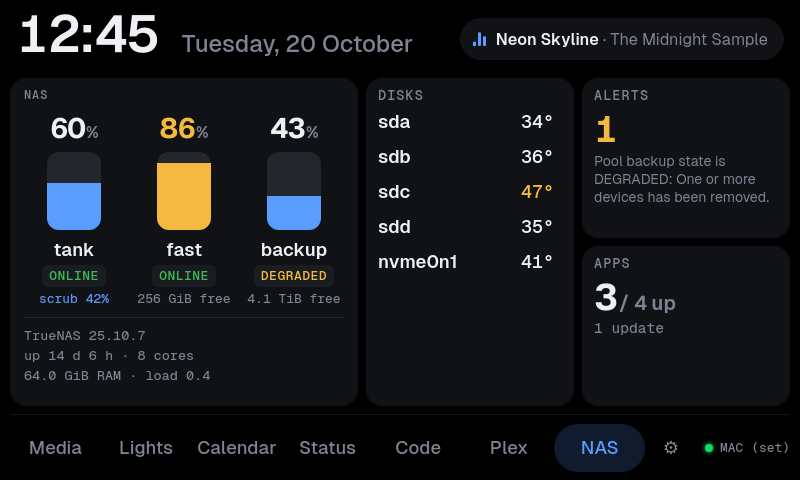
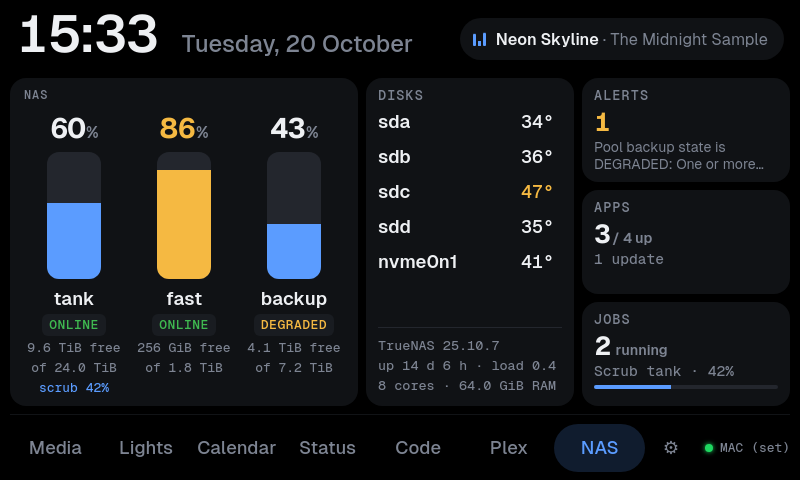
Move the TrueNAS version and system lines under the disks

diff --git a/device/web/index.html b/device/web/index.html
@@ -390,7 +390,7 @@
   .plex .m-detail { font-size: calc(13.5px * var(--ts)); }
   .plex .m-value { font-size: calc(34px * var(--ts)); }
   /* the NAS page: a narrow card of pools as vertical tanks, then disks, alerts and apps */
-  .nas-pools { flex: none; min-width: 200px; max-width: 52%; padding: 10px 14px 0; }
+  .nas-pools { flex: none; min-width: 200px; max-width: 52%; padding: 10px 14px 10px; }
   .nas-cols { flex: 1; min-height: 0; display: flex; overflow-x: auto; }
   .nas-cols::-webkit-scrollbar { display: none; }
   .nas-col { flex: 1; min-width: 100px; display: flex; flex-direction: column; align-items: center; padding-top: 4px; }
@@ -408,7 +408,7 @@
   .nas-free { max-width: 100%; margin-top: 4px; font: 500 calc(12px * var(--ts)) GeistMono, monospace; color: var(--muted);
     white-space: nowrap; overflow: hidden; text-overflow: ellipsis; }
   .nas-scan { color: var(--acc); }
-  .nas-sys { flex: none; margin-top: 10px; padding: 8px 0 10px; border-top: 1px solid var(--line); font: 500 calc(12.5px * var(--ts)) GeistMono, monospace;
+  .nas-sys { flex: none; margin-top: 6px; padding: 8px 0 4px; border-top: 1px solid var(--line); font: 500 calc(12.5px * var(--ts)) GeistMono, monospace;
     color: var(--muted); line-height: 1.5; }
   .nas-sys div { white-space: nowrap; overflow: hidden; text-overflow: ellipsis; }
   .px-num.warn, .m-value.warn { color: var(--warn); }
@@ -2137,10 +2137,11 @@ function updateNas() {
   var line = function (parts) { parts = parts.filter(function (x) { return x; }); return parts.length ? '<div>' + parts.join(' · ') + '</div>' : ''; };
   redraw($('nasp'), '<h3>' + esc(sys.host || 'TrueNAS') + '</h3><div class="nas-cols">' +
     (pools.map(function (p) { return nasPool(p, pools.some(function (q) { return q.scan; })); }).join('') ||
-      '<div class="ag-empty">No pools</div>') + '</div>' +
-    '<div class="nas-sys">' + line([sys.version ? 'TrueNAS ' + esc(String(sys.version).replace(/^TrueNAS-/, '')) : '']) +
-      line([sys.uptime ? 'up ' + fmtUptime(sys.uptime) : '', sys.cores ? sys.cores + ' cores' : '']) +
-      line([sys.memory ? fmtBytes(sys.memory) + ' RAM' : '', sys.load && sys.load.length ? 'load ' + Number(sys.load[0]).toFixed(1) : '']) + '</div>');
+      '<div class="ag-empty">No pools</div>') + '</div>');
+  // The server under the disks: version, uptime, cores, memory and load.
+  var sysInfo = '<div class="nas-sys">' + line([sys.version ? 'TrueNAS ' + esc(String(sys.version).replace(/^TrueNAS-/, '')) : '']) +
+    line([sys.uptime ? 'up ' + fmtUptime(sys.uptime) : '', sys.load && sys.load.length ? 'load ' + Number(sys.load[0]).toFixed(1) : '']) +
+    line([sys.cores ? sys.cores + ' cores' : '', sys.memory ? fmtBytes(sys.memory) + ' RAM' : '']) + '</div>';
   var hot = disks.filter(function (d) { return d.temp != null; });
   var temps = hot.map(function (d) {
     var nvme = /^nvme/.test(d.name), cls = d.temp >= (nvme ? 70 : 55) ? ' bad' : d.temp >= (nvme ? 60 : 45) ? ' warn' : '';  // SSDs run warmer
@@ -2161,7 +2162,7 @@ function updateNas() {
     (job ? '<div class="m-detail nas-job">' + esc(nasJobName(job)) + (pct != null ? ' · ' + Math.round(pct) + '%' : '') + '</div>' +
       '<div class="np-bar"><i style="width:' + (pct || 0) + '%"></i></div>' : '<div class="m-detail">None now</div>') + '</div>';
   redraw($('nasside'), '<div class="mcard px-libs"><div class="m-label">Disks</div><div class="ag-list">' +
-    (temps || '<div class="ag-empty">No temperatures</div>') + '</div></div>' + alertCard + appCard + jobCard);
+    (temps || '<div class="ag-empty">No temperatures</div>') + '</div>' + sysInfo + '</div>' + alertCard + appCard + jobCard);
 }
 
 // ---- feedback

diff --git a/README.md b/README.md
@@ -214,8 +214,8 @@ them to the Car Thing **over the USB cable** (`adb forward`; no network):
   with its health, free space and size, the temperature of every disk (NVMe drives have
   their own, higher limits), the server's alerts, how many apps run and how many
   have updates, and the jobs that run now (a scrub, a snapshot, replication or cloud
-  sync task, an app update), with the first one's progress. Below the pools: the
-  TrueNAS version, uptime, cores, memory and load. It refreshes every 10 seconds
+  sync task, an app update), with the first one's progress. Below the disks: the
+  TrueNAS version, uptime, load, cores and memory. It refreshes every 10 seconds
   while on screen, every minute otherwise (see [Connecting TrueNAS](#connecting-truenas)).
 - **Volume and audio devices:** when the volume or mute changes (the dial, the Mute
   tile, your keyboard), a volume bar shows at the top for a moment. The Media page
